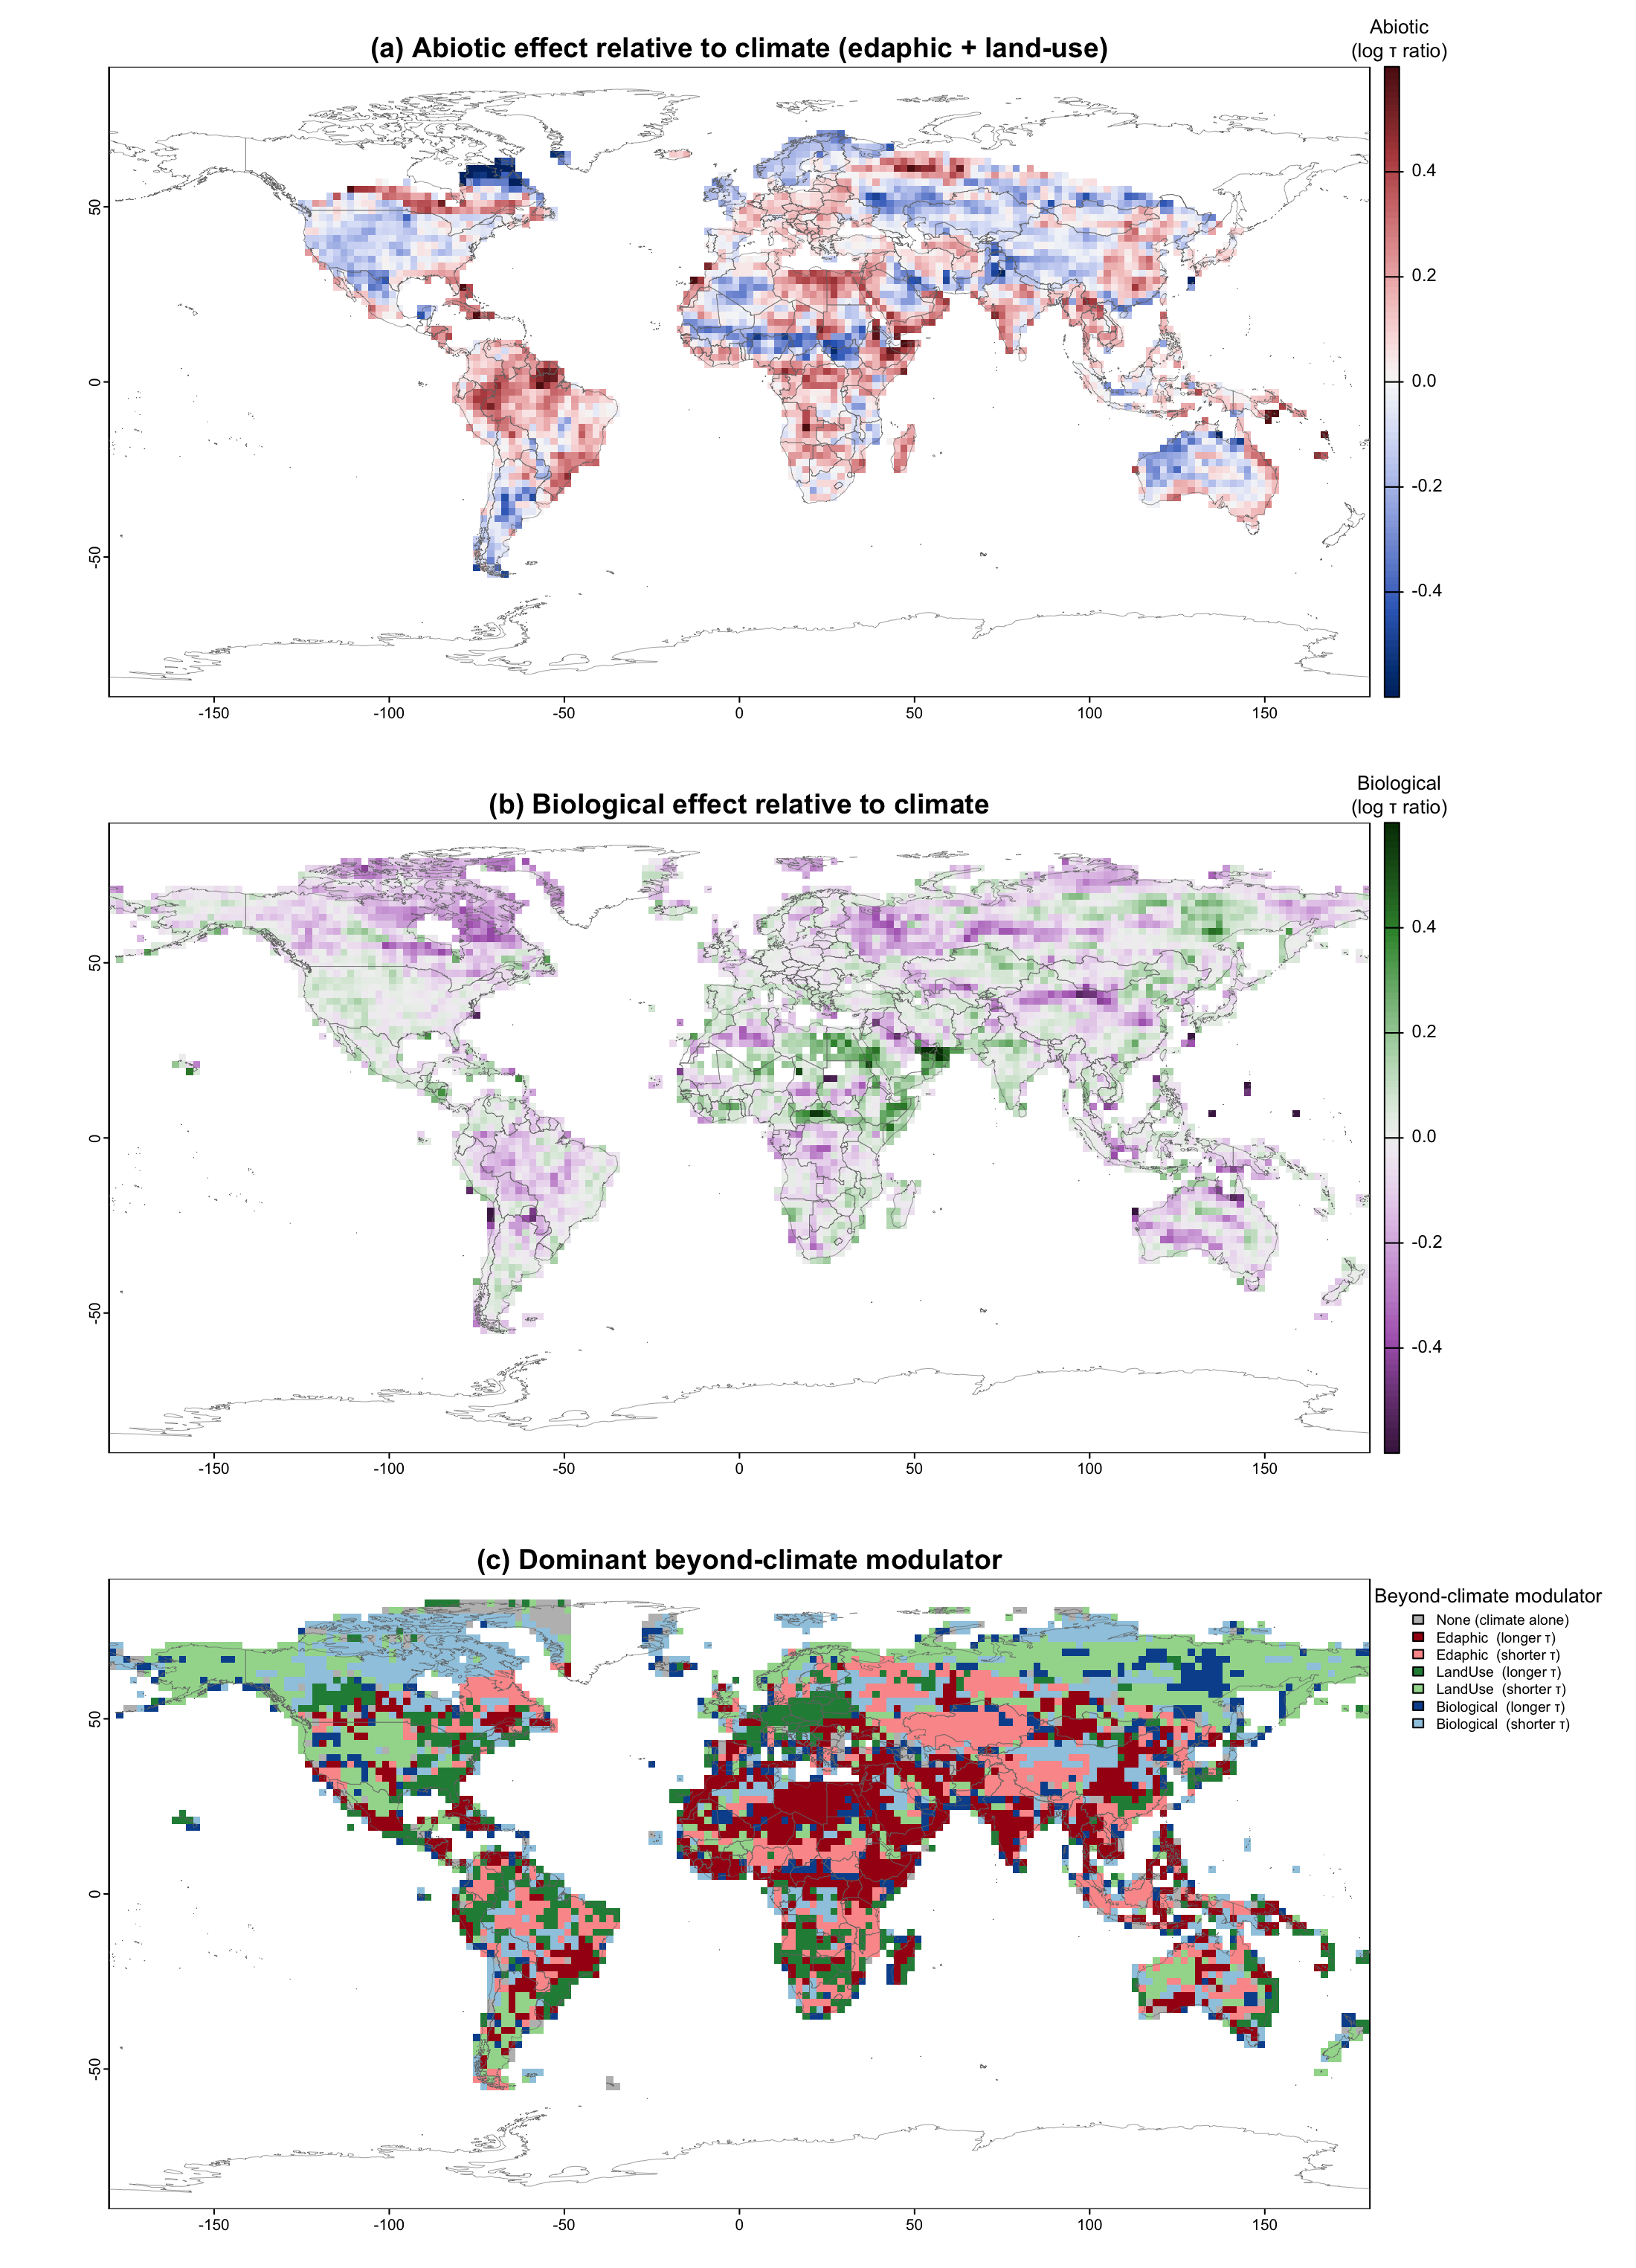
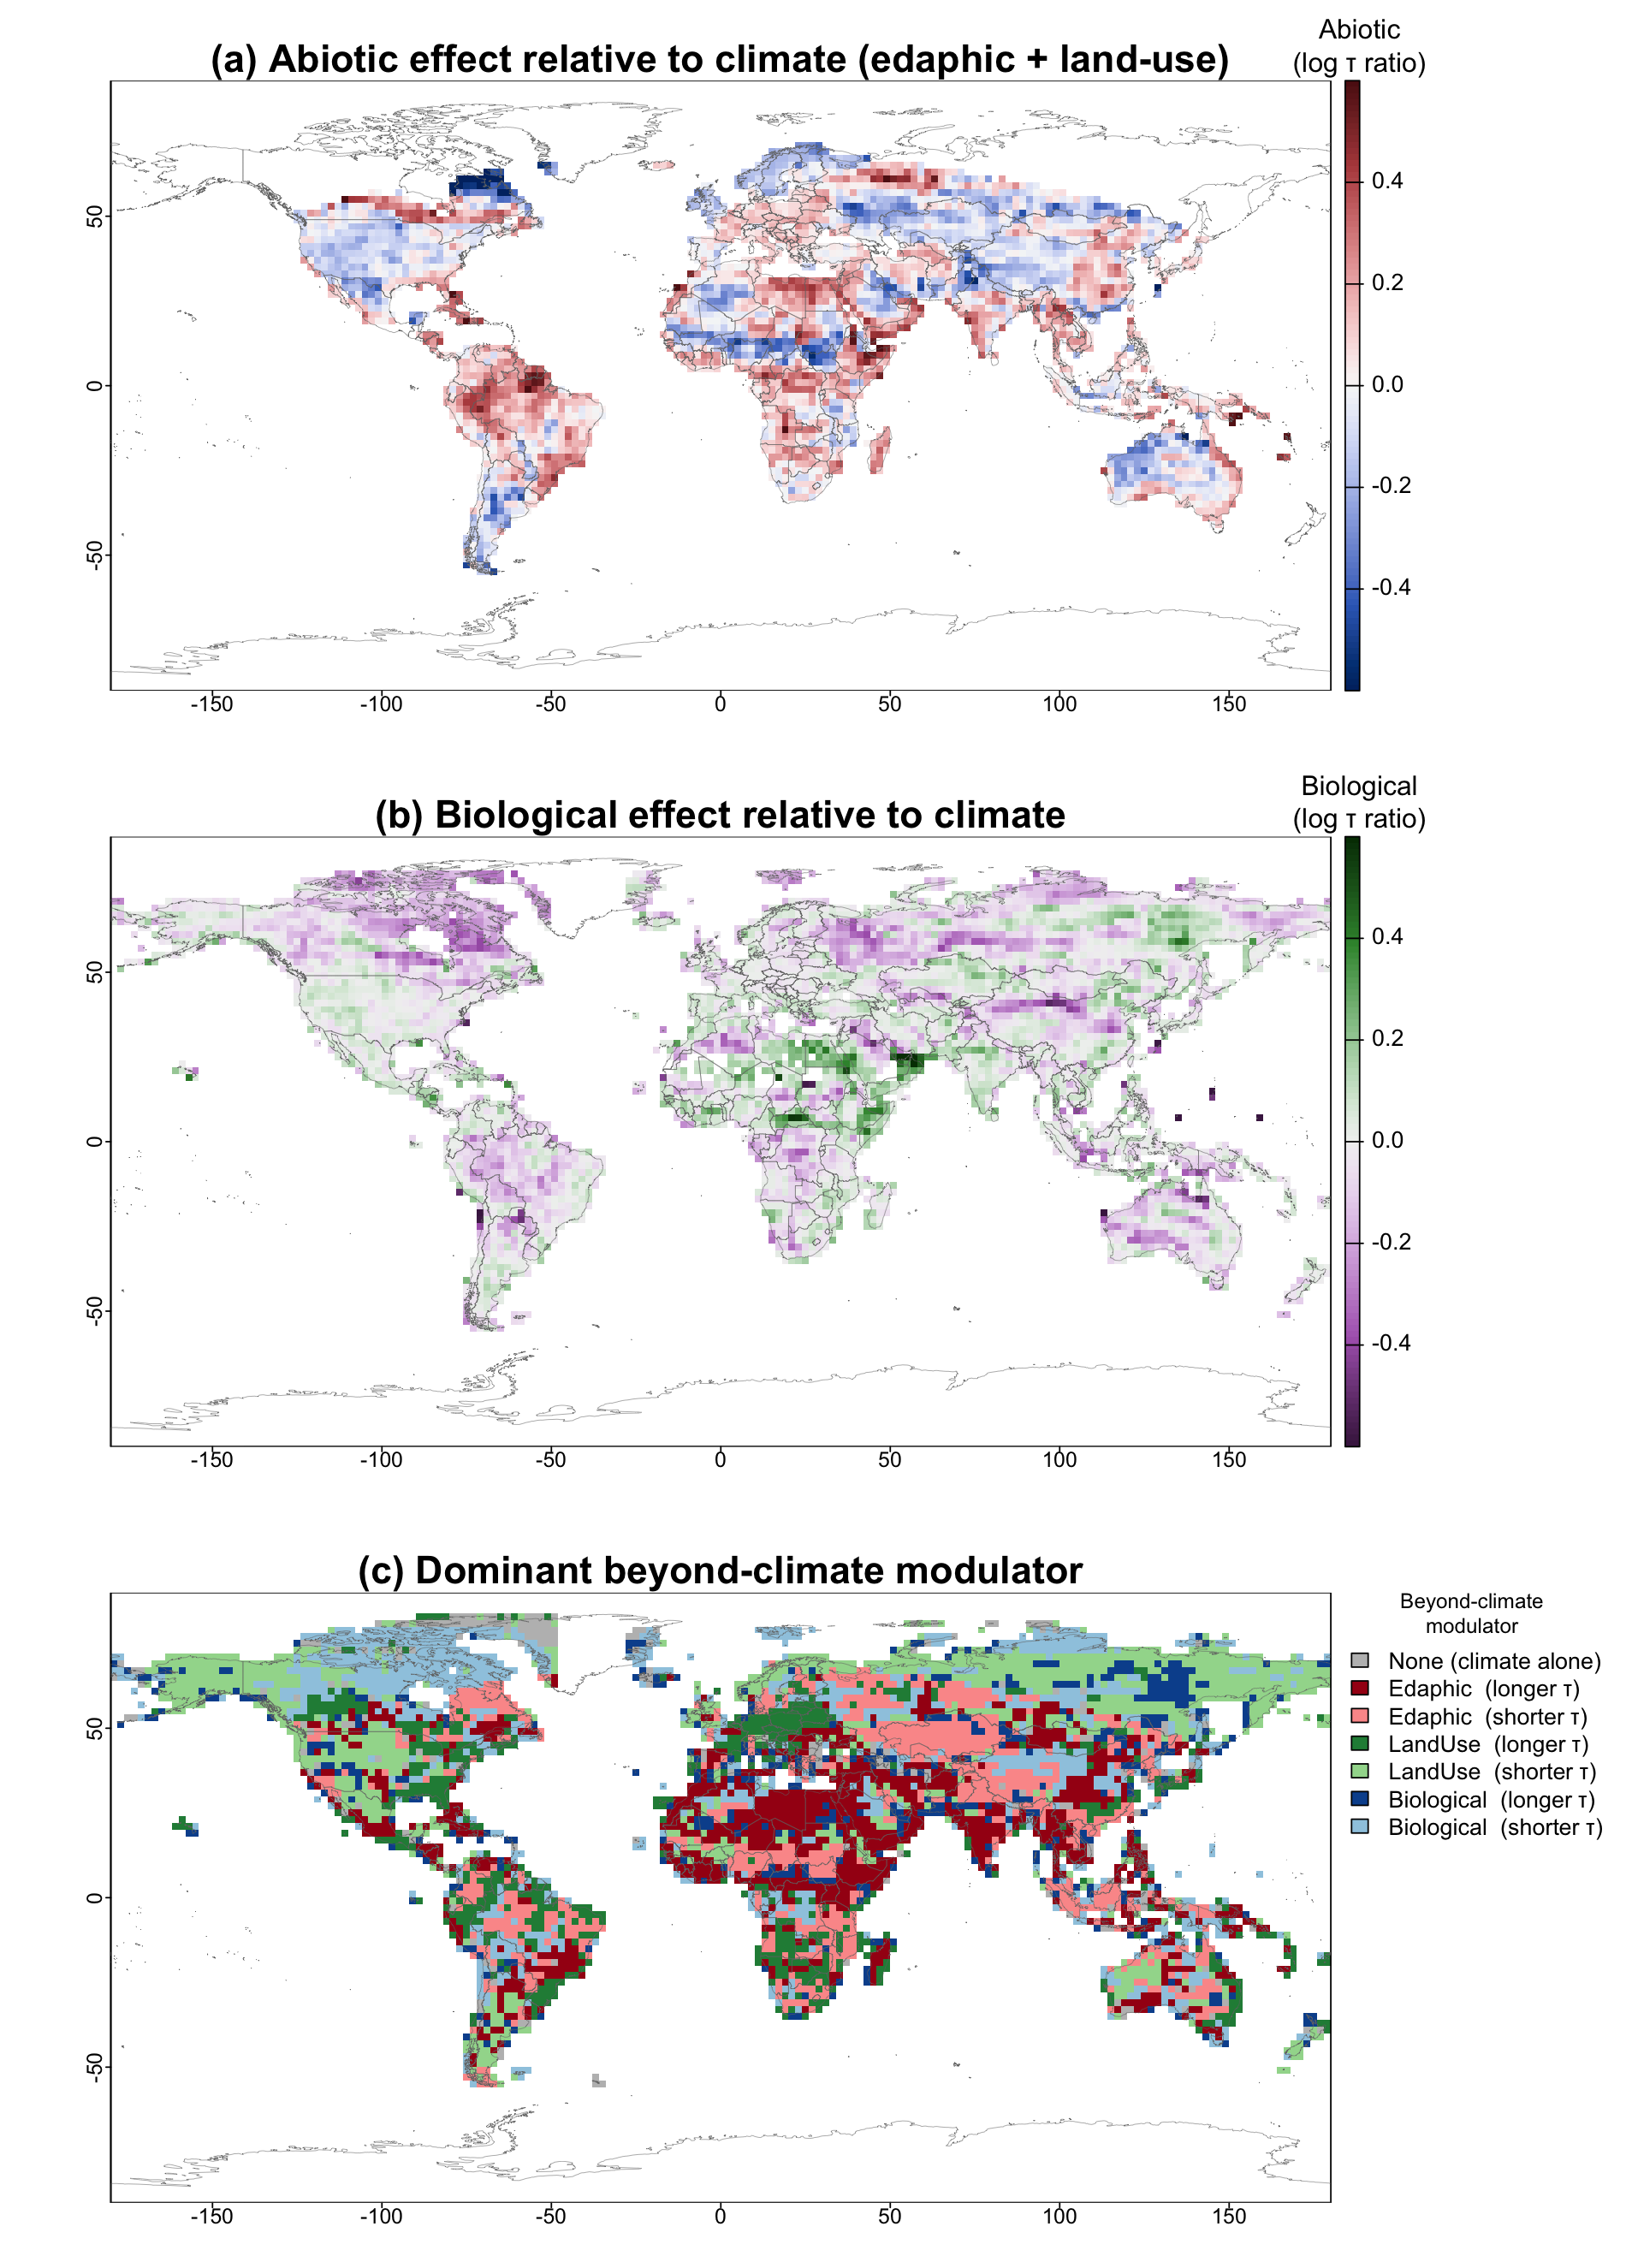
Add author-contributions list; smaller italic captions; enlarge + widen Fig 3
Per-author contributions block before the abstract (temporary placement, reformat for target journal). caption package: small italic caption text, bold labels. Fig 3 fonts enlarged and figure widened to 0.95 textwidth for legibility; panel (c) legend title wrapped.

diff --git a/Global_MRT_code/manuscript/manuscript.tex b/Global_MRT_code/manuscript/manuscript.tex
@@ -20,6 +20,8 @@
 \usepackage{hyperref}
 \usepackage{xcolor}
 \usepackage{authblk}
+\usepackage{caption}
+\captionsetup{font=small, labelfont=bf, textfont=it}
 \newcommand{\PH}[1]{\textcolor{red}{#1}}
 
 \hypersetup{
@@ -62,6 +64,16 @@
 \begin{document}
 
 \maketitle
+
+% NOTE: temporary placement before the abstract; reformat (and add CRediT / any tooling
+% disclosure) once the target journal is known. See also the section at the end.
+\noindent\textbf{Author contributions.}
+\begin{itemize}\setlength\itemsep{2pt}
+  \item \textbf{Lorenzo Menichetti}: conceived and designed the study, carried out the analysis, and wrote the manuscript.
+  \item \textbf{Shoji Hashimoto}: contributed to design choices during the work and to the revision of the manuscript.
+  \item \textbf{Aleksi Lehtonen}: contributed to design choices during the work and to the revision of the manuscript.
+  \item \textbf{Elisa Bruni}: contributed to design choices during the work and to the revision of the manuscript.
+\end{itemize}
 
 \begin{abstract}
 Soil organic carbon (SOC) turnover is commonly modelled as a global function of
@@ -983,7 +995,7 @@ concentrated on sharp gradients or boundaries.
 Consistent with its near-zero unique variance, land use produces the largest local shifts yet adds little that edaphic and climate do not already carry. We also note that, although the abiotic and biological panels of the zonality map (Fig.~\ref{fig:zonality}) look broadly similar, this resemblance is mostly the climate signal they share: each panel is a domain expressed relative to climate, so both inherit the same climatic backbone and co-vary ($r\approx0.4$--0.5). When biology is instead added \emph{on top of} the climate-plus-edaphic model (the nested decomposition, Fig.~\ref{fig:nestedmap}), the biological increment (what biology contributes beyond climate and edaphic context combined) is essentially uncorrelated with the abiotic field ($r\approx0$; Fig.~\ref{fig:bioscatter}). In that sense soil biology forms a distinct spatial axis rather than a restatement of the edaphic one.
 
 \begin{figure}[H]\centering
-\includegraphics[width=0.80\textwidth]{../plots/step_15b_zonality/zonality_three_panel.png}
+\includegraphics[width=0.95\textwidth]{../plots/step_15b_zonality/zonality_three_panel.png}
 % Comment by Aleksi: caption should explain how to read the figure for non-specialists.
 % RESOLVED: caption now carries an explicit "How to read it" walkthrough (below).
 % Panel (c) promoted from the appendix (Lorenzo). Caption states climate is the baseline